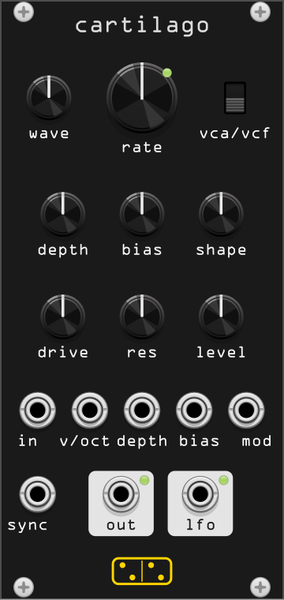
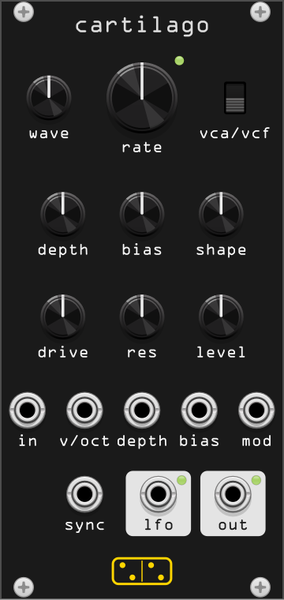
fix(cartilago): space the rate LED, right-align the outputs, move sync in
Three panel corrections:

  - the rate LED sat 0.2 mm off the knob's edge, reading as part of it.
    Out to a 2.7 mm gap on the top-right corner.
  - the two output badges now sit against the right edge in the other
    order, lfo then out, so the audio output is the rightmost thing on the
    panel and the row reads outward to it.
  - sync was 5.88 mm from the left border, closer to the edge than
    anything else on the panel. Moved onto the v/oct column so the bottom
    row aligns with the input row above it.

diff --git a/src/cartilago.cpp b/src/cartilago.cpp
@@ -467,11 +467,11 @@ struct CartilagoWidget : ModuleWidget {
 // @elem LABEL_DEPTHCV label 0.0 label "depth" 0.0 30.48 95.50
 // @elem LABEL_BIASCV label 0.0 label "bias" 0.0 42.78 95.50
 // @elem LABEL_MOD label 0.0 label "mod" 0.0 55.08 95.50
-// @elem LABEL_SYNC label 0.0 label "sync" 0.0 5.88 113.50
-// @elem BOX_AUDIO panel_box 7.0 box "" 0.0 26.00 108.00
-// @elem BOX_LFO panel_box 7.0 box "" 0.0 43.00 108.00
-// @elem LABEL_OUT label 0.0 label "out" 0.0 26.00 113.50
-// @elem LABEL_LFOOUT label 0.0 label "lfo" 0.0 43.00 113.50
+// @elem LABEL_SYNC label 0.0 label "sync" 0.0 18.18 113.50
+// @elem BOX_AUDIO panel_box 7.0 box "" 0.0 50.00 108.00
+// @elem BOX_LFO panel_box 7.0 box "" 0.0 34.00 108.00
+// @elem LABEL_OUT label 0.0 label "out" 0.0 50.00 113.50
+// @elem LABEL_LFOOUT label 0.0 label "lfo" 0.0 34.00 113.50
 // @elem LOGO forsitan_logo 0.0 logo "" 0.0 30.48 122.50
 
         addChild(createWidget<ScrewSilver>(mm2px(Vec(2.54f, 0.00f)))); // SCREW_TL
@@ -492,12 +492,12 @@ struct CartilagoWidget : ModuleWidget {
         addInput(createInputCentered<PJ301MPort>(mm2px(Vec(30.48f, 88.00f)), module, Cartilago::DEPTH_INPUT));
         addInput(createInputCentered<PJ301MPort>(mm2px(Vec(42.78f, 88.00f)), module, Cartilago::BIAS_INPUT));
         addInput(createInputCentered<PJ301MPort>(mm2px(Vec(55.08f, 88.00f)), module, Cartilago::MOD_INPUT));
-        addInput(createInputCentered<PJ301MPort>(mm2px(Vec(5.88f, 106.00f)), module, Cartilago::SYNC_INPUT));
-        addOutput(createOutputCentered<PJ301MPort>(mm2px(Vec(26.00f, 106.00f)), module, Cartilago::AUDIO_OUTPUT));
-        addOutput(createOutputCentered<PJ301MPort>(mm2px(Vec(43.00f, 106.00f)), module, Cartilago::LFO_OUTPUT));
-        addChild(createLightCentered<SmallLight<GreenLight>>(mm2px(Vec(36.72f, 14.76f)), module, Cartilago::RATE_LIGHT));
-        addChild(createLightCentered<SmallLight<GreenLight>>(mm2px(Vec(31.00f, 103.00f)), module, Cartilago::AUDIO_LIGHT));
-        addChild(createLightCentered<SmallLight<GreenLight>>(mm2px(Vec(48.00f, 103.00f)), module, Cartilago::LFO_LIGHT));
+        addInput(createInputCentered<PJ301MPort>(mm2px(Vec(18.18f, 106.00f)), module, Cartilago::SYNC_INPUT));
+        addOutput(createOutputCentered<PJ301MPort>(mm2px(Vec(50.00f, 106.00f)), module, Cartilago::AUDIO_OUTPUT));
+        addOutput(createOutputCentered<PJ301MPort>(mm2px(Vec(34.00f, 106.00f)), module, Cartilago::LFO_OUTPUT));
+        addChild(createLightCentered<SmallLight<GreenLight>>(mm2px(Vec(38.50f, 13.00f)), module, Cartilago::RATE_LIGHT));
+        addChild(createLightCentered<SmallLight<GreenLight>>(mm2px(Vec(55.00f, 103.00f)), module, Cartilago::AUDIO_LIGHT));
+        addChild(createLightCentered<SmallLight<GreenLight>>(mm2px(Vec(39.00f, 103.00f)), module, Cartilago::LFO_LIGHT));
         // @layout:end
     }
 
